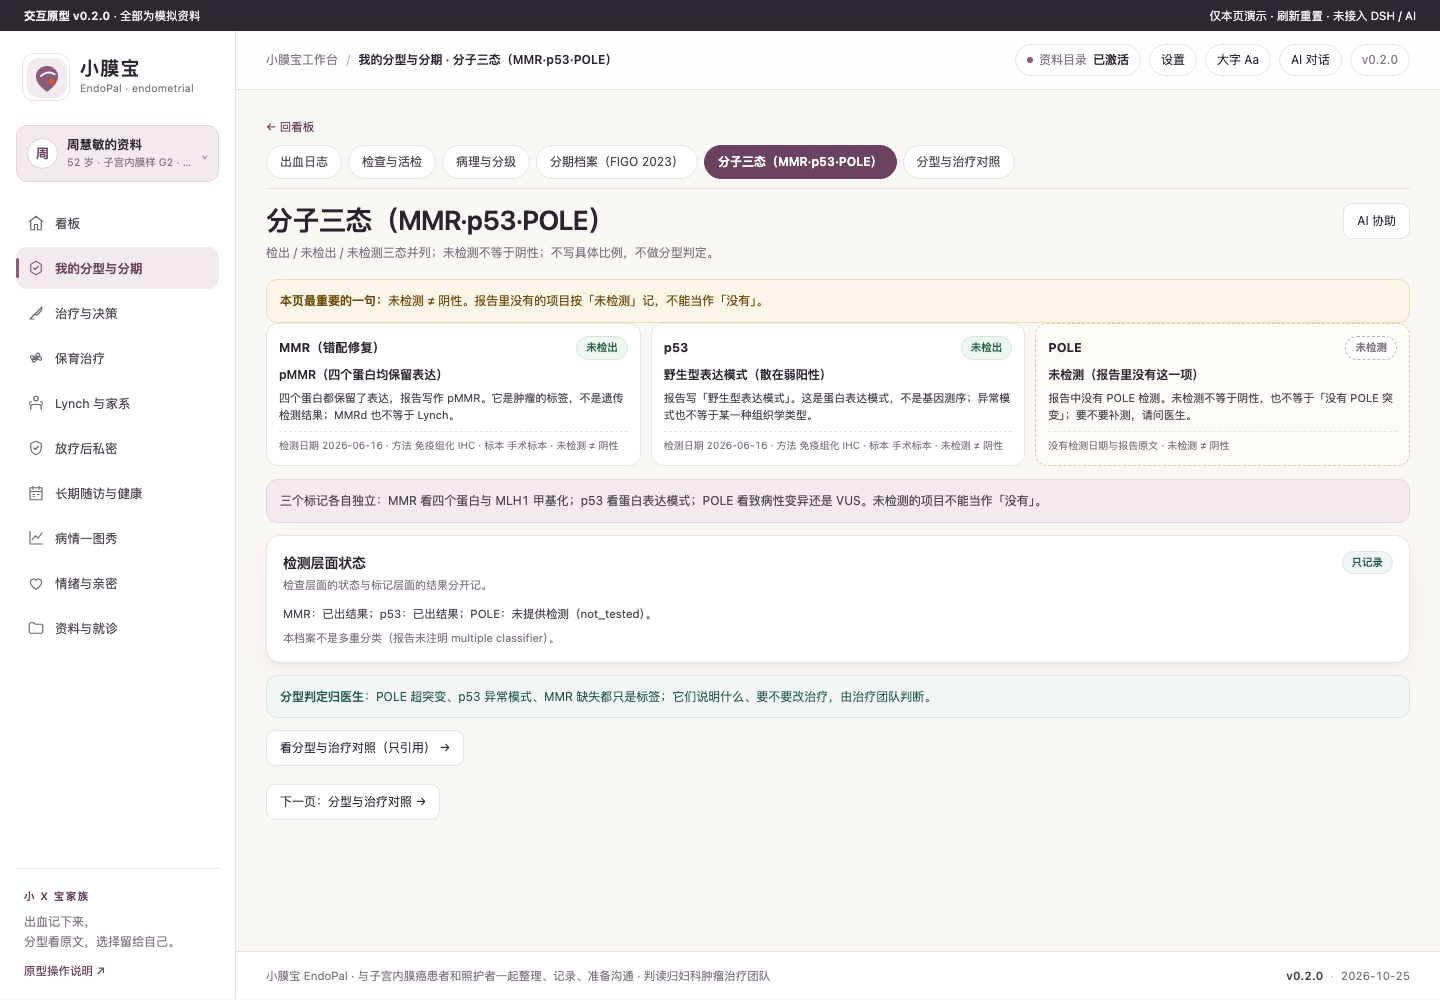
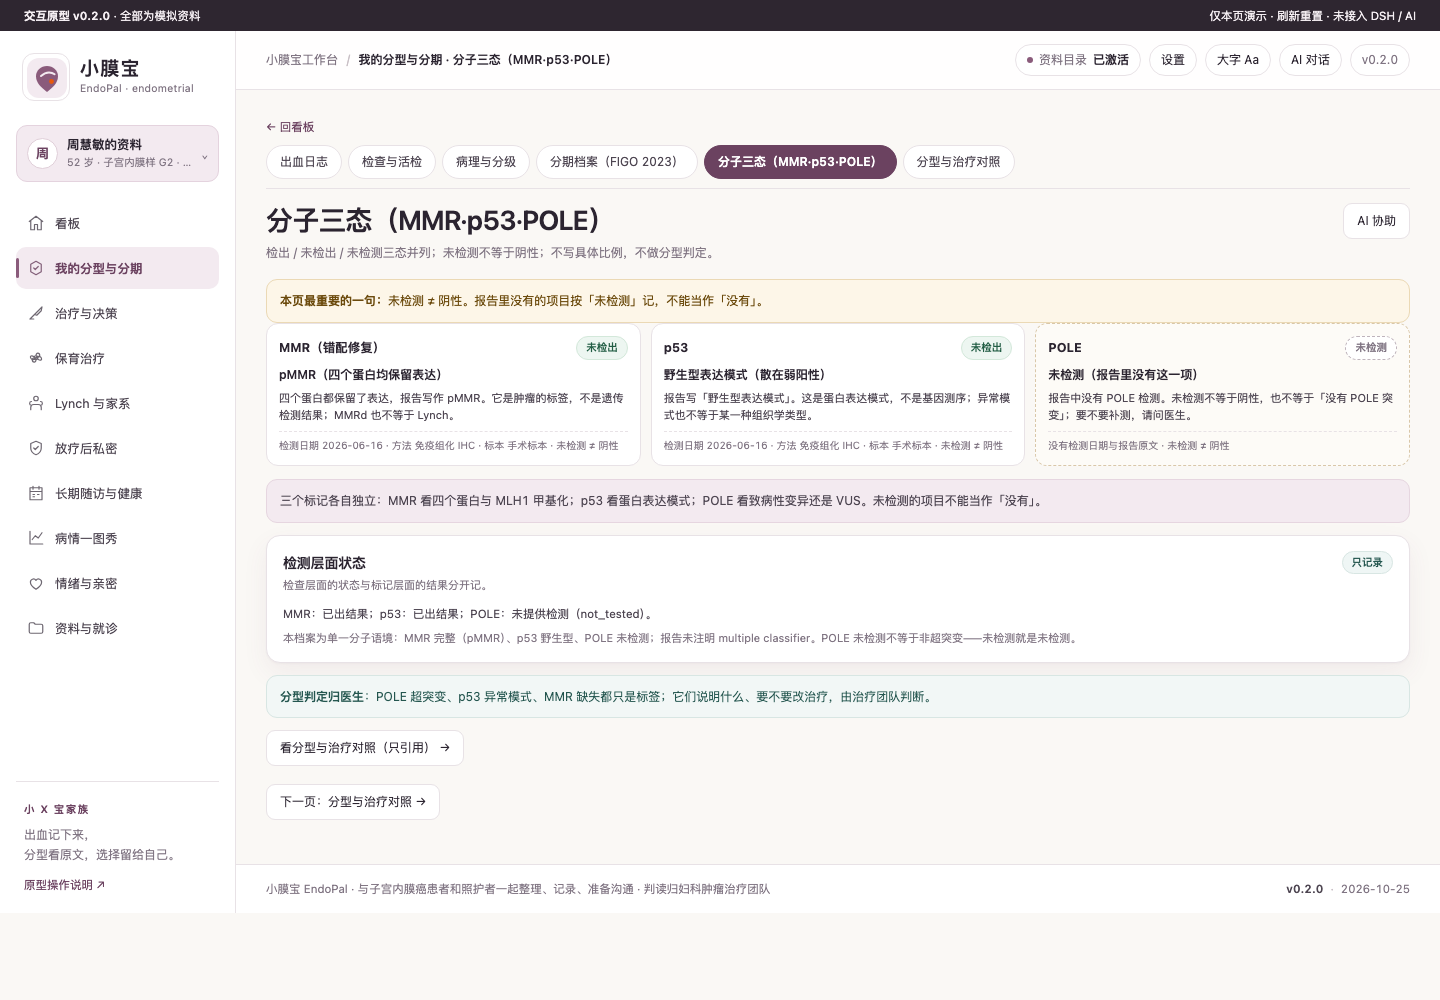
G2 返工3: 档案级 diagnosis IB→IA2/删除与 IA2 不匹配的 IB 期指南引用行（不编造原文）/重截看板与导出图

diff --git a/prototypes/v0.2/demo-data.js b/prototypes/v0.2/demo-data.js
@@ -77,7 +77,7 @@ window.DEMO_DATA = {
       "name": "周慧敏（演示）",
       "age": 52,
       "sex": "女",
-      "diagnosis": "子宫内膜样腺癌 G2 · FIGO IB 期 · 术后辅助阴道残端近距离放疗后（演示）",
+      "diagnosis": "子宫内膜样腺癌 G2 · FIGO IA2 期 · 术后辅助阴道残端近距离放疗后（演示）",
       "diagnosisShort": "子宫内膜样 G2 · FIGO IB · 放疗后随访",
       "stageLine": "FIGO 2023：IA2 期（肌层浸润 <1/2）；分子：pMMR / p53 野生型 / POLE 未检测",
       "primaryRole": "PATIENT",
@@ -311,14 +311,6 @@ window.DEMO_DATA = {
           "来源与日期"
         ],
         "rows": [
-          {
-            "ctx": "pMMR · IA2 期 · 术后",
-            "guideline": "「对 IB 期且无其他高危因素者，辅助治疗方式（阴道近距离放疗或观察）需结合个体情况讨论。」",
-            "china": "待核验（未取到 NMPA 官方原文）",
-            "insurance": "待核验",
-            "source": "NCCN 2026 子宫内膜癌 · 2026-02",
-            "date": "2026-02"
-          },
           {
             "ctx": "POLE 未检测",
             "guideline": "「POLE 超突变需经规范化检测确认；未检测不能推断为 POLE 超突变或非超突变。」",
